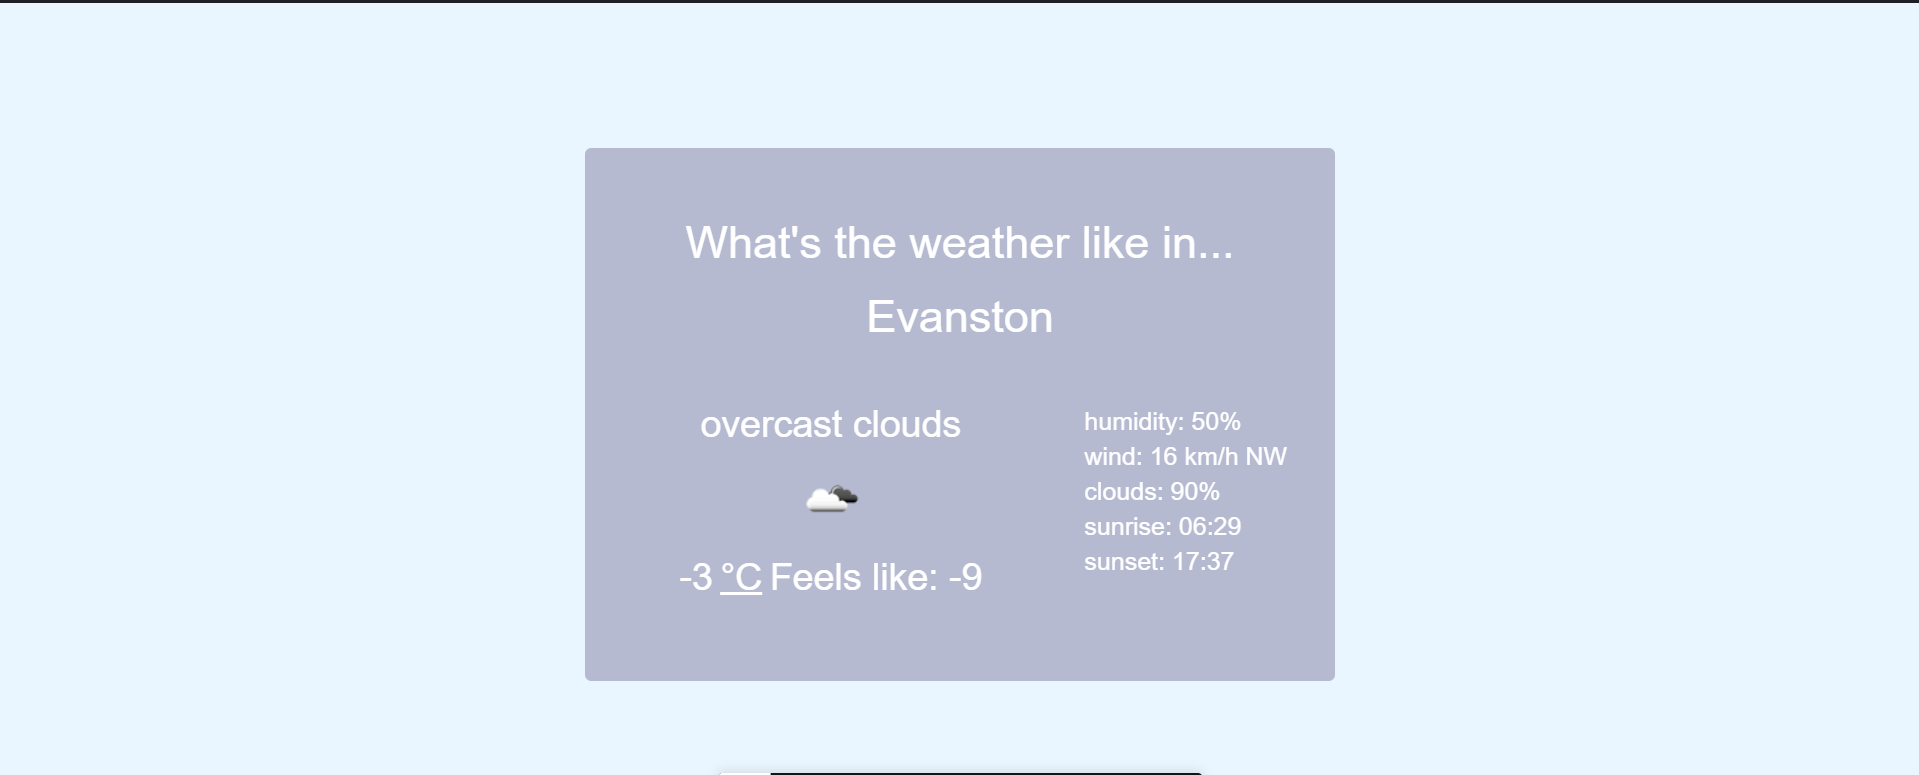
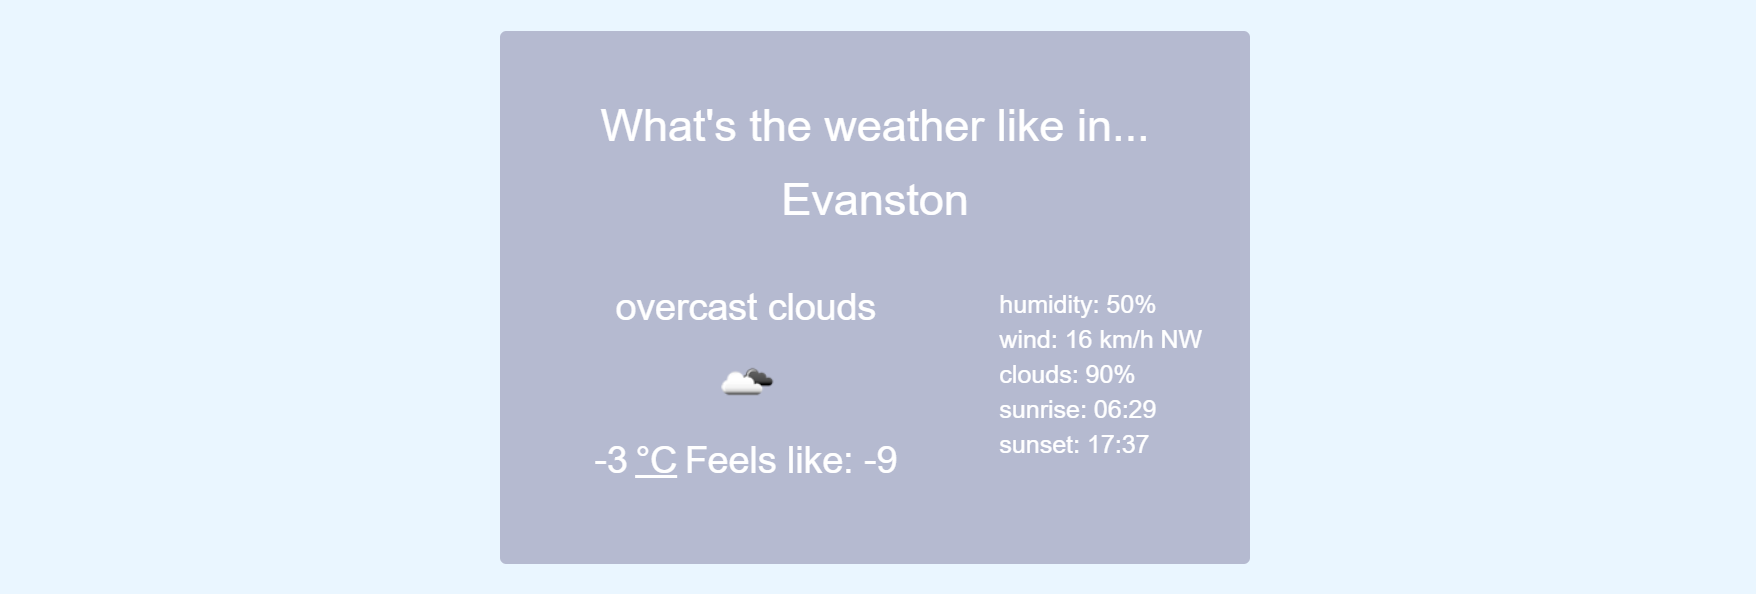
Changed the fractal colors and a background image

diff --git a/src/index.js b/src/index.js
@@ -2,9 +2,9 @@ import { createApp, ref } from "https://unpkg.com/vue@3/dist/vue.esm-browser.pro
 import Navbar from "./components/Navbar.js";
 const root = document.documentElement;
 root.dataset.theme = root.dataset.theme === "dark" ? "light" : "dark";
-const accent1 = ref(getComputedStyle(root).getPropertyValue('--color-accent-1'));
-const accent2 = ref(getComputedStyle(root).getPropertyValue('--color-accent-2'));
-const accent3 = ref(getComputedStyle(root).getPropertyValue('--color-accent-3'));
+const accent1 = ref(getComputedStyle(root).getPropertyValue('--color-accent-4'));
+const accent2 = ref(getComputedStyle(root).getPropertyValue('--color-secondary'));
+const accent3 = ref(getComputedStyle(root).getPropertyValue('--color-primary'));
 const accent4 = ref(getComputedStyle(root).getPropertyValue('--color-accent-4'));
 
 
@@ -24,9 +24,9 @@ createApp({
     mounted() {
         window.addEventListener('theme-changed', () => {
             console.log('theme changed');
-            accent1.value = getComputedStyle(root).getPropertyValue('--color-accent-1').trim();
-            accent2.value = getComputedStyle(root).getPropertyValue('--color-accent-2').trim();
-            accent3.value = getComputedStyle(root).getPropertyValue('--color-accent-3').trim();
+            accent1.value = getComputedStyle(root).getPropertyValue('--color-accent-4').trim();
+            accent2.value = getComputedStyle(root).getPropertyValue('--color-secondary').trim();
+            accent3.value = getComputedStyle(root).getPropertyValue('--color-primary').trim();
             accent4.value = getComputedStyle(root).getPropertyValue('--color-accent-4').trim();
             // redraw canvas here
             this.drawCanvas();